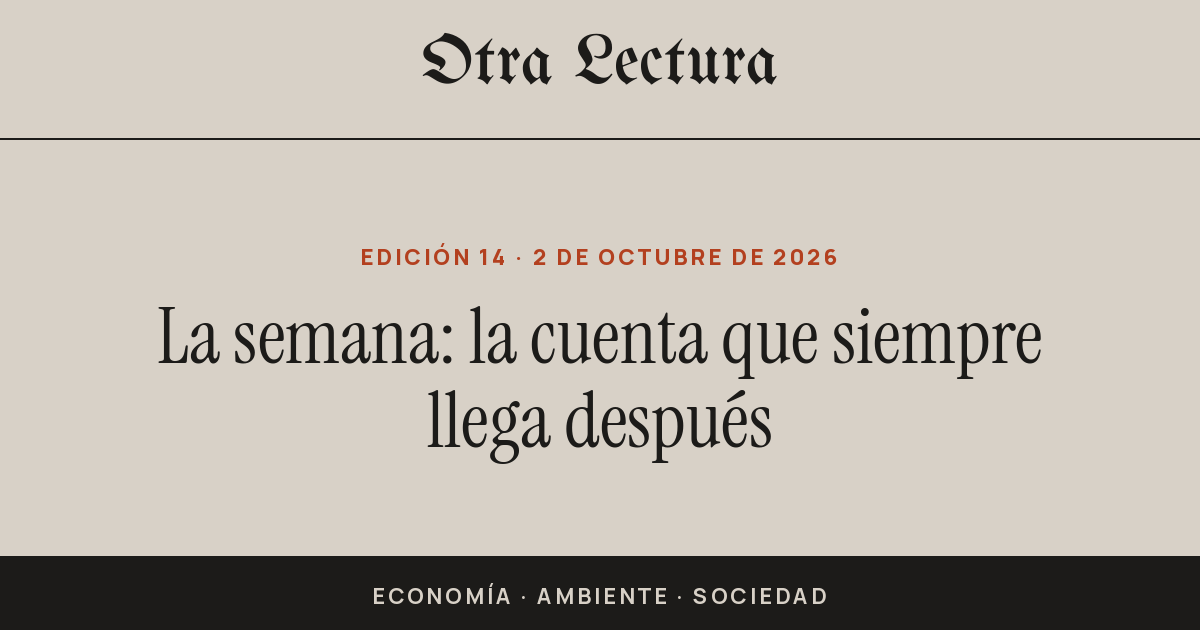
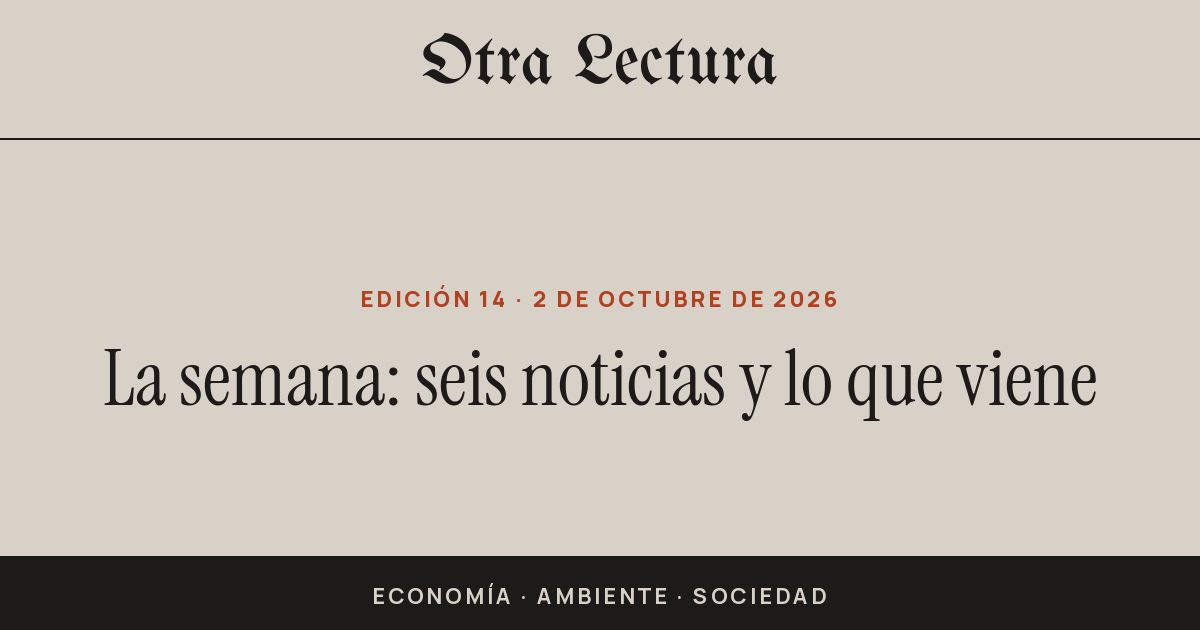
Edición de texto: La semana más práctica, sin tesis
Claude-Session: https://claude.ai/code/session_01PaiPt73Gg2dBxy8faNJwyJ

Changed region(s): [[0.0925, 0.4524, 0.925, 0.754], [0.2775, 0.3921, 0.7092, 0.4222]]

diff --git a/site/ediciones/2026-10-02-semana.html b/site/ediciones/2026-10-02-semana.html
@@ -4,16 +4,16 @@
 <meta charset="utf-8">
 <meta name="viewport" content="width=device-width, initial-scale=1">
 <meta name="color-scheme" content="light">
-<title>La semana: la cuenta que siempre llega después · Otra lectura</title>
-<meta name="description" content="Edición 14, 2 de octubre de 2026: La cuenta que siempre llega después. Contexto, soluciones y contrapeso.">
+<title>La semana: seis noticias y lo que viene · Otra lectura</title>
+<meta name="description" content="Edición 14, 2 de octubre de 2026: Seis noticias y lo que viene. Contexto, soluciones y contrapeso.">
 <meta property="og:site_name" content="Otra lectura">
 <meta property="og:locale" content="es_CO">
 <meta property="og:type" content="article">
-<meta property="og:title" content="La semana: la cuenta que siempre llega después · Otra lectura">
-<meta property="og:description" content="Edición 14, 2 de octubre de 2026: La cuenta que siempre llega después. Contexto, soluciones y contrapeso.">
+<meta property="og:title" content="La semana: seis noticias y lo que viene · Otra lectura">
+<meta property="og:description" content="Edición 14, 2 de octubre de 2026: Seis noticias y lo que viene. Contexto, soluciones y contrapeso.">
 <meta name="twitter:card" content="summary_large_image">
-<meta name="twitter:title" content="La semana: la cuenta que siempre llega después · Otra lectura">
-<meta name="twitter:description" content="Edición 14, 2 de octubre de 2026: La cuenta que siempre llega después. Contexto, soluciones y contrapeso.">
+<meta name="twitter:title" content="La semana: seis noticias y lo que viene · Otra lectura">
+<meta name="twitter:description" content="Edición 14, 2 de octubre de 2026: Seis noticias y lo que viene. Contexto, soluciones y contrapeso.">
 <meta name="theme-color" content="#d8d1c7" media="(prefers-color-scheme: light)">
 <meta name="theme-color" content="#1b1a18" media="(prefers-color-scheme: dark)">
 <link rel="canonical" href="https://otralectura.co/ediciones/2026-10-02-semana.html">
@@ -21,9 +21,9 @@
 <meta property="og:image" content="https://otralectura.co/og/ediciones/2026-10-02-semana.png">
 <meta property="og:image:width" content="1200">
 <meta property="og:image:height" content="630">
-<meta property="og:image:alt" content="La semana: la cuenta que siempre llega después">
+<meta property="og:image:alt" content="La semana: seis noticias y lo que viene">
 <meta name="twitter:image" content="https://otralectura.co/og/ediciones/2026-10-02-semana.png">
-<script type="application/ld+json">{"@context": "https://schema.org", "@type": "Article", "headline": "La semana: la cuenta que siempre llega después", "description": "Edición 14, 2 de octubre de 2026: La cuenta que siempre llega después. Contexto, soluciones y contrapeso.", "datePublished": "2026-10-02", "dateModified": "2026-10-02", "inLanguage": "es-CO", "articleSection": ["Economía", "Ambiente", "Sociedad"], "keywords": "semana-2026-10-02", "contentLocation": ["Colombia", "Barranquilla", "Puerto Colombia", "Atlántico", "Magdalena", "La Guajira", "Cali"], "author": {"@type": "Organization", "name": "Otra lectura"}, "publisher": {"@type": "Organization", "name": "Otra lectura"}, "isAccessibleForFree": true, "citation": ["https://www.infobae.com/colombia/2026/09/15/colombia-perdio-la-autosuficiencia-en-gas-aseguro-juan-manuel-rojas-presidente-de-promigas-el-pais-ya-importa-el-34-de-las-necesidades-de-gas-natural/", "https://www.larepublica.co/economia/ecopetrol-y-petrobras-proyectan-que-el-gas-del-campo-sirius-entre-a-partir-de-2030-4260314", "https://www.elheraldo.co/atlantico/2026/08/21/igac-propone-nueva-linea-divisoria-entre-puerto-colombia-y-barranquilla/", "https://barranquilla.gov.co/hacienda/impuesto-predial-unificado-2", "https://www.portafolio.co/economia/crecimiento/gobierno-lleva-al-fmi-panorama-fiscal-de-colombia-estado-gasta-40-billones-y-recibe-29-billones-cada-mes-503446", "https://www.nber.org/papers/w32465", "https://www.elheraldo.co/atlantico/2026/09/29/proyecto-de-ley-busca-trasladar-12-billones-del-presupuesto-general-2026-para-pagar-deuda-de-air-e/", "https://www.eltiempo.com/economia/air-e-patrimonio-negativo-y-una-deuda-de-3-09-billones-con-el-mercado-electrico-el-balance-de-dos-anos-de-intervencion-3588495", "https://www.elheraldo.co/economia/2026/09/30/aumento-el-desempleo-en-colombia-paso-de-86-a-94-en-agosto-dane/", "https://economia.uniandes.edu.co/sites/default/files/imagenes/eventos/Villar-MISION-COLOMBIA-ENVEJECE.pdf", "https://www.eltiempo.com/economia/sectores/gobierno-pide-modificar-el-presupuesto-de-2026-para-destinar-3-9-billones-a-la-reconstruccion-y-pagar-deudas-de-air-e-3589843", "https://www.portafolio.co/economia/gobierno/como-deberian-vigilarse-los-contratos-de-la-reconstruccion-las-claves-que-propone-transparencia-por-colombia-500777"], "url": "https://otralectura.co/ediciones/2026-10-02-semana.html"}</script>
+<script type="application/ld+json">{"@context": "https://schema.org", "@type": "Article", "headline": "La semana: seis noticias y lo que viene", "description": "Edición 14, 2 de octubre de 2026: Seis noticias y lo que viene. Contexto, soluciones y contrapeso.", "datePublished": "2026-10-02", "dateModified": "2026-10-02", "inLanguage": "es-CO", "articleSection": ["Economía", "Ambiente", "Sociedad"], "keywords": "semana-2026-10-02", "contentLocation": ["Colombia", "Barranquilla", "Puerto Colombia", "Atlántico", "Magdalena", "La Guajira", "Cali"], "author": {"@type": "Organization", "name": "Otra lectura"}, "publisher": {"@type": "Organization", "name": "Otra lectura"}, "isAccessibleForFree": true, "citation": ["https://www.infobae.com/colombia/2026/09/15/colombia-perdio-la-autosuficiencia-en-gas-aseguro-juan-manuel-rojas-presidente-de-promigas-el-pais-ya-importa-el-34-de-las-necesidades-de-gas-natural/", "https://www.larepublica.co/economia/ecopetrol-y-petrobras-proyectan-que-el-gas-del-campo-sirius-entre-a-partir-de-2030-4260314", "https://www.elheraldo.co/atlantico/2026/08/21/igac-propone-nueva-linea-divisoria-entre-puerto-colombia-y-barranquilla/", "https://barranquilla.gov.co/hacienda/impuesto-predial-unificado-2", "https://www.portafolio.co/economia/crecimiento/gobierno-lleva-al-fmi-panorama-fiscal-de-colombia-estado-gasta-40-billones-y-recibe-29-billones-cada-mes-503446", "https://www.nber.org/papers/w32465", "https://www.elheraldo.co/atlantico/2026/09/29/proyecto-de-ley-busca-trasladar-12-billones-del-presupuesto-general-2026-para-pagar-deuda-de-air-e/", "https://www.eltiempo.com/economia/air-e-patrimonio-negativo-y-una-deuda-de-3-09-billones-con-el-mercado-electrico-el-balance-de-dos-anos-de-intervencion-3588495", "https://www.elheraldo.co/economia/2026/09/30/aumento-el-desempleo-en-colombia-paso-de-86-a-94-en-agosto-dane/", "https://economia.uniandes.edu.co/sites/default/files/imagenes/eventos/Villar-MISION-COLOMBIA-ENVEJECE.pdf", "https://www.eltiempo.com/economia/sectores/gobierno-pide-modificar-el-presupuesto-de-2026-para-destinar-3-9-billones-a-la-reconstruccion-y-pagar-deudas-de-air-e-3589843", "https://www.portafolio.co/economia/gobierno/como-deberian-vigilarse-los-contratos-de-la-reconstruccion-las-claves-que-propone-transparencia-por-colombia-500777"], "url": "https://otralectura.co/ediciones/2026-10-02-semana.html"}</script>
 <link rel="preload" href="../fuentes/instrument-serif.woff2" as="font" type="font/woff2" crossorigin>
 <link rel="preload" href="../fuentes/unifraktur.woff2" as="font" type="font/woff2" crossorigin>
 <link rel="stylesheet" href="../estilo.css">
@@ -57,22 +57,18 @@
 <main id="contenido">
 <article class="edicion">
 <header class="cabecera">
-<p class="fecha"><time datetime="2026-10-02">2 de octubre de 2026</time> · Edición 14 · 4 min de lectura</p>
-<h1>La semana: la cuenta que siempre llega después</h1>
+<p class="fecha"><time datetime="2026-10-02">2 de octubre de 2026</time> · Edición 14 · 2 min de lectura</p>
+<h1>La semana: seis noticias y lo que viene</h1>
 <ul class="temas" aria-label="Categorías"><li><a href="../categorias/economia.html">Economía</a></li><li><a href="../categorias/ambiente.html">Ambiente</a></li><li><a href="../categorias/sociedad.html">Sociedad</a></li></ul>
 
-<nav class="indice-edicion" aria-label="En esta edición"><p>En esta edición</p><ol><li><a href="#semana-2026-10-02">La cuenta que siempre llega después</a></li><li><a href="#para-conversar">Para conversar</a></li></ol></nav>
+<nav class="indice-edicion" aria-label="En esta edición"><p>En esta edición</p><ol><li><a href="#semana-2026-10-02">Seis noticias y lo que viene</a></li><li><a href="#para-conversar">Para conversar</a></li></ol></nav>
 </header>
 <section class="carril carril-radar">
 
 <article class="item" id="semana-2026-10-02">
-<h3>La cuenta que siempre llega después</h3>
-<p class="con-etiqueta"><strong class="etiqueta">En pocas palabras.</strong> Esta semana contamos seis historias: el gas, un
-barrio entre dos alcaldías, las cuentas del Estado, la luz del Caribe, el
-trabajo sin pensión y la reconstrucción. Parecen distintas, pero se
-parecen mucho. Una decisión se aplazó o se tomó a la carrera, y la cuenta
-le llega a alguien que no la firmó. Y casi todas se deciden en el
-Congreso.</p>
+<h3>Seis noticias y lo que viene</h3>
+<p class="con-etiqueta"><strong class="etiqueta">En pocas palabras.</strong> Un repaso corto de la semana: qué contamos, qué
+vale la pena recordar y qué se decide en los próximos días.</p>
 <p class="con-etiqueta"><strong class="etiqueta">Lo que pasó esta semana.</strong> </p>
 <ul>
 <li><strong>Gas.</strong> De cada 100 unidades de gas que usó el país en agosto, 34
@@ -94,32 +90,6 @@ Congreso.</p>
   Milagro, que contrata con reglas de empresa privada, más rápidas y con
   menos controles. <a href="2026-10-02-radar.html">Leer la edición 13</a></li>
 </ul>
-<p class="con-etiqueta"><strong class="etiqueta">El hilo que las une.</strong> Piense en una tarjeta de crédito. Hoy se estrena
-la nevera. La cuenta llega el mes siguiente, con intereses. Y si la
-tarjeta es de otro, mejor: el que compra no es el que paga.</p>
-<p>Eso se repitió toda la semana:</p>
-<ul>
-<li><strong>En el gas,</strong> la regla para buscarlo cambia cada cuatro años, pero un
-  yacimiento tarda casi diez en dar gas. El gobierno que decide no buscar
-  no paga la cuenta. La paga el siguiente y, sobre todo, la familia que
-  usa gas.</li>
-<li><strong>En las cuentas del Estado,</strong> el que gasta de más tampoco paga. Hoy, de
-  cada 3 pesos del presupuesto, 1 se va en pagar deuda.</li>
-<li><strong>En Air-e,</strong> las facturas bajaron en 2024 porque se dejó de cobrar un
-  saldo viejo. Ahora esa plata sale, en parte, de una partida que era para
-  transporte público. La cuenta solo cambió de ventanilla.</li>
-<li><strong>En el trabajo,</strong> un empleo sin aportes ahorra hoy. El costo aparece en
-  la vejez: solo cerca de uno de cada cuatro adultos mayores recibe
-  pensión.</li>
-<li><strong>En la reconstrucción,</strong> mostrar obras pronto da réditos. El sobrecosto,
-  si aparece, se descubre cuando ya hay otro gobierno.</li>
-<li><strong>En Villa Campestre,</strong> las obras terminaron siendo de nadie. El
-  impuesto, en cambio, siempre encuentra quién lo cobre.</li>
-</ul>
-<p>La lección buena: lo que funcionó afuera se parece. Reglas que duran más
-que un gobierno y alguien que revisa en público. Jamaica bajó su deuda a
-menos de la mitad con un comité que revisaba cada meta, y el plan siguió
-cuando cambió el gobierno.</p>
 <p class="con-etiqueta"><strong class="etiqueta">Para tener presente.</strong> </p>
 <ul>
 <li>Gas nuevo no es gas mañana: Sirius, el hallazgo más grande del país, no
@@ -155,9 +125,8 @@ cuando cambió el gobierno.</p>
 </section>
 <section class="carril conversar" id="para-conversar">
 <h2>Para conversar</h2>
-<p class="con-etiqueta"><strong class="etiqueta">La pregunta.</strong> Si casi todas las cuentas de esta semana las paga alguien
-que no tomó la decisión, ¿qué decisión le gustaría a usted que alguien
-tomara hoy, aunque el beneficio lo vea otro gobierno?</p>
+<p class="con-etiqueta"><strong class="etiqueta">La pregunta.</strong> De estas seis noticias, ¿cuál le toca más de cerca a
+usted o a su familia?</p>
 </section>
 <section class="carril cierre plegable">
 <details>

diff --git a/site/dias/2026-10-02.html b/site/dias/2026-10-02.html
@@ -5,15 +5,15 @@
 <meta name="viewport" content="width=device-width, initial-scale=1">
 <meta name="color-scheme" content="light">
 <title>Viernes 2 de octubre de 2026 · Otra lectura</title>
-<meta name="description" content="Otra lectura del 2 de octubre de 2026: La cuenta que siempre llega después; Reconstruir rápido o reconstruir a la vista: el Fondo Milagro pide 2,7 billones.">
+<meta name="description" content="Otra lectura del 2 de octubre de 2026: Seis noticias y lo que viene; Reconstruir rápido o reconstruir a la vista: el Fondo Milagro pide 2,7 billones.">
 <meta property="og:site_name" content="Otra lectura">
 <meta property="og:locale" content="es_CO">
 <meta property="og:type" content="website">
 <meta property="og:title" content="Viernes 2 de octubre de 2026 · Otra lectura">
-<meta property="og:description" content="Otra lectura del 2 de octubre de 2026: La cuenta que siempre llega después; Reconstruir rápido o reconstruir a la vista: el Fondo Milagro pide 2,7 billones.">
+<meta property="og:description" content="Otra lectura del 2 de octubre de 2026: Seis noticias y lo que viene; Reconstruir rápido o reconstruir a la vista: el Fondo Milagro pide 2,7 billones.">
 <meta name="twitter:card" content="summary_large_image">
 <meta name="twitter:title" content="Viernes 2 de octubre de 2026 · Otra lectura">
-<meta name="twitter:description" content="Otra lectura del 2 de octubre de 2026: La cuenta que siempre llega después; Reconstruir rápido o reconstruir a la vista: el Fondo Milagro pide 2,7 billones.">
+<meta name="twitter:description" content="Otra lectura del 2 de octubre de 2026: Seis noticias y lo que viene; Reconstruir rápido o reconstruir a la vista: el Fondo Milagro pide 2,7 billones.">
 <meta name="theme-color" content="#d8d1c7" media="(prefers-color-scheme: light)">
 <meta name="theme-color" content="#1b1a18" media="(prefers-color-scheme: dark)">
 <link rel="canonical" href="https://otralectura.co/dias/2026-10-02.html">
@@ -21,9 +21,9 @@
 <meta property="og:image" content="https://otralectura.co/og/dias/2026-10-02.png">
 <meta property="og:image:width" content="1200">
 <meta property="og:image:height" content="630">
-<meta property="og:image:alt" content="La semana: la cuenta que siempre llega después">
+<meta property="og:image:alt" content="La semana: seis noticias y lo que viene">
 <meta name="twitter:image" content="https://otralectura.co/og/dias/2026-10-02.png">
-<script type="application/ld+json">{"@context": "https://schema.org", "@type": "WebPage", "name": "Viernes 2 de octubre de 2026 · Otra lectura", "description": "Otra lectura del 2 de octubre de 2026: La cuenta que siempre llega después; Reconstruir rápido o reconstruir a la vista: el Fondo Milagro pide 2,7 billones.", "inLanguage": "es-CO", "isPartOf": {"@type": "WebSite", "name": "Otra lectura"}, "url": "https://otralectura.co/dias/2026-10-02.html"}</script>
+<script type="application/ld+json">{"@context": "https://schema.org", "@type": "WebPage", "name": "Viernes 2 de octubre de 2026 · Otra lectura", "description": "Otra lectura del 2 de octubre de 2026: Seis noticias y lo que viene; Reconstruir rápido o reconstruir a la vista: el Fondo Milagro pide 2,7 billones.", "inLanguage": "es-CO", "isPartOf": {"@type": "WebSite", "name": "Otra lectura"}, "url": "https://otralectura.co/dias/2026-10-02.html"}</script>
 <link rel="preload" href="../fuentes/instrument-serif.woff2" as="font" type="font/woff2" crossorigin>
 <link rel="preload" href="../fuentes/unifraktur.woff2" as="font" type="font/woff2" crossorigin>
 <link rel="stylesheet" href="../estilo.css">
@@ -61,10 +61,10 @@
 </header>
 <ol class="indice dia">
 <li>
-<p class="fecha">Edición 14 · 4 min de lectura</p>
-<a class="dia-titulo" href="../ediciones/2026-10-02-semana.html">La semana: la cuenta que siempre llega después</a>
+<p class="fecha">Edición 14 · 2 min de lectura</p>
+<a class="dia-titulo" href="../ediciones/2026-10-02-semana.html">La semana: seis noticias y lo que viene</a>
 
-<ul class="dia-temas" aria-label="Temas principales"><li><a href="../ediciones/2026-10-02-semana.html#semana-2026-10-02">La cuenta que siempre llega después</a></li></ul>
+<ul class="dia-temas" aria-label="Temas principales"><li><a href="../ediciones/2026-10-02-semana.html#semana-2026-10-02">Seis noticias y lo que viene</a></li></ul>
 </li>
 <li>
 <p class="fecha">Edición 13 · 6 min de lectura</p>

diff --git a/site/index.html b/site/index.html
@@ -70,10 +70,10 @@ leer despacio y conversar en casa. <a href="sobre.html">¿Qué es esto?</a></p>
 <h2 id="hoy-titulo" class="dia-fecha"><time datetime="2026-10-02">Viernes 2 de octubre de 2026</time></h2>
 <ol class="indice dia">
 <li>
-<p class="fecha">Edición 14 · 4 min de lectura</p>
-<a class="dia-titulo" href="ediciones/2026-10-02-semana.html">La semana: la cuenta que siempre llega después</a>
+<p class="fecha">Edición 14 · 2 min de lectura</p>
+<a class="dia-titulo" href="ediciones/2026-10-02-semana.html">La semana: seis noticias y lo que viene</a>
 
-<ul class="dia-temas" aria-label="Temas principales"><li><a href="ediciones/2026-10-02-semana.html#semana-2026-10-02">La cuenta que siempre llega después</a></li></ul>
+<ul class="dia-temas" aria-label="Temas principales"><li><a href="ediciones/2026-10-02-semana.html#semana-2026-10-02">Seis noticias y lo que viene</a></li></ul>
 </li>
 <li>
 <p class="fecha">Edición 13 · 6 min de lectura</p>

diff --git a/site/ediciones/2026-10-02-radar.html b/site/ediciones/2026-10-02-radar.html
@@ -401,8 +401,8 @@ fondo) y el daño es medible (obras sin terminar, familias sin casa).</p></detai
 <a class="glosario-boton" href="#glosario">Glosario</a>
 <aside class="siguiente" aria-label="Seguir leyendo">
 <p class="siguiente-pregunta">¿Le gustaría seguir leyendo? Tenemos esta otra lectura:</p>
-<a class="siguiente-titulo" href="2026-10-02-semana.html">La semana: la cuenta que siempre llega después</a>
-<p class="fecha">2 de octubre de 2026 · 4 min de lectura</p>
+<a class="siguiente-titulo" href="2026-10-02-semana.html">La semana: seis noticias y lo que viene</a>
+<p class="fecha">2 de octubre de 2026 · 2 min de lectura</p>
 </aside>
 </main>
 <footer class="sitio">

diff --git a/site/ediciones/2026-10-01-radar.html b/site/ediciones/2026-10-01-radar.html
@@ -378,8 +378,8 @@ alto en 20 meses y la informalidad sigue casi en el mismo lugar.</p></details>
 <a class="glosario-boton" href="#glosario">Glosario</a>
 <aside class="siguiente" aria-label="Seguir leyendo">
 <p class="siguiente-pregunta">¿Le gustaría seguir leyendo? Tenemos esta otra lectura:</p>
-<a class="siguiente-titulo" href="2026-10-02-semana.html">La semana: la cuenta que siempre llega después</a>
-<p class="fecha">2 de octubre de 2026 · 4 min de lectura</p>
+<a class="siguiente-titulo" href="2026-10-02-semana.html">La semana: seis noticias y lo que viene</a>
+<p class="fecha">2 de octubre de 2026 · 2 min de lectura</p>
 </aside>
 </main>
 <footer class="sitio">

diff --git a/site/ediciones/2026-09-29-villa-campestre.html b/site/ediciones/2026-09-29-villa-campestre.html
@@ -340,8 +340,8 @@ luego puntaje de 1 a 3; gravedad y cercanía valen doble (máximo 21).</p>
 <a class="glosario-boton" href="#glosario">Glosario</a>
 <aside class="siguiente" aria-label="Seguir leyendo">
 <p class="siguiente-pregunta">¿Le gustaría seguir leyendo? Tenemos esta otra lectura:</p>
-<a class="siguiente-titulo" href="2026-10-02-semana.html">La semana: la cuenta que siempre llega después</a>
-<p class="fecha">2 de octubre de 2026 · 4 min de lectura</p>
+<a class="siguiente-titulo" href="2026-10-02-semana.html">La semana: seis noticias y lo que viene</a>
+<p class="fecha">2 de octubre de 2026 · 2 min de lectura</p>
 </aside>
 </main>
 <footer class="sitio">

diff --git a/site/archivo.html b/site/archivo.html
@@ -87,7 +87,7 @@
 <ol class="archivo-dias">
 <li>
 <a href="dias/2026-10-02.html"><time datetime="2026-10-02">Viernes 2 de octubre de 2026</time></a>
-<p class="archivo-temas">La cuenta que siempre llega después · Reconstruir rápido o reconstruir a la vista: el Fondo Milagro pide 2,7 billones</p>
+<p class="archivo-temas">Seis noticias y lo que viene · Reconstruir rápido o reconstruir a la vista: el Fondo Milagro pide 2,7 billones</p>
 </li><li>
 <a href="dias/2026-10-01.html"><time datetime="2026-10-01">Jueves 1 de octubre de 2026</time></a>
 <p class="archivo-temas">Uno de cada dos trabajadores sin pensión: el desempleo sube y la informalidad casi no se mueve</p>

diff --git a/site/ediciones/2026-09-29-radar.html b/site/ediciones/2026-09-29-radar.html
@@ -400,8 +400,8 @@ DANE publique las cifras de empleo de agosto.</p></details>
 <a class="glosario-boton" href="#glosario">Glosario</a>
 <aside class="siguiente" aria-label="Seguir leyendo">
 <p class="siguiente-pregunta">¿Le gustaría seguir leyendo? Tenemos esta otra lectura:</p>
-<a class="siguiente-titulo" href="2026-10-02-semana.html">La semana: la cuenta que siempre llega después</a>
-<p class="fecha">2 de octubre de 2026 · 4 min de lectura</p>
+<a class="siguiente-titulo" href="2026-10-02-semana.html">La semana: seis noticias y lo que viene</a>
+<p class="fecha">2 de octubre de 2026 · 2 min de lectura</p>
 </aside>
 </main>
 <footer class="sitio">

diff --git a/site/ediciones/2026-09-30-radar.html b/site/ediciones/2026-09-30-radar.html
@@ -367,8 +367,8 @@ antesala de El Niño.</p></details>
 <a class="glosario-boton" href="#glosario">Glosario</a>
 <aside class="siguiente" aria-label="Seguir leyendo">
 <p class="siguiente-pregunta">¿Le gustaría seguir leyendo? Tenemos esta otra lectura:</p>
-<a class="siguiente-titulo" href="2026-10-02-semana.html">La semana: la cuenta que siempre llega después</a>
-<p class="fecha">2 de octubre de 2026 · 4 min de lectura</p>
+<a class="siguiente-titulo" href="2026-10-02-semana.html">La semana: seis noticias y lo que viene</a>
+<p class="fecha">2 de octubre de 2026 · 2 min de lectura</p>
 </aside>
 </main>
 <footer class="sitio">

diff --git a/site/ediciones/2026-09-28-radar.html b/site/ediciones/2026-09-28-radar.html
@@ -358,8 +358,8 @@ colegio.</p></details>
 <a class="glosario-boton" href="#glosario">Glosario</a>
 <aside class="siguiente" aria-label="Seguir leyendo">
 <p class="siguiente-pregunta">¿Le gustaría seguir leyendo? Tenemos esta otra lectura:</p>
-<a class="siguiente-titulo" href="2026-10-02-semana.html">La semana: la cuenta que siempre llega después</a>
-<p class="fecha">2 de octubre de 2026 · 4 min de lectura</p>
+<a class="siguiente-titulo" href="2026-10-02-semana.html">La semana: seis noticias y lo que viene</a>
+<p class="fecha">2 de octubre de 2026 · 2 min de lectura</p>
 </aside>
 </main>
 <footer class="sitio">

diff --git a/site/categorias/ambiente.html b/site/categorias/ambiente.html
@@ -61,8 +61,8 @@
 </header>
 <ol class="indice" reversed>
 <li>
-<p class="fecha"><time datetime="2026-10-02">2 de octubre de 2026</time> · Edición 14 · 4 min de lectura</p>
-<a href="../ediciones/2026-10-02-semana.html">La semana: la cuenta que siempre llega después</a>
+<p class="fecha"><time datetime="2026-10-02">2 de octubre de 2026</time> · Edición 14 · 2 min de lectura</p>
+<a href="../ediciones/2026-10-02-semana.html">La semana: seis noticias y lo que viene</a>
 
 </li><li>
 <p class="fecha"><time datetime="2026-09-30">30 de septiembre de 2026</time> · Edición 11 · 5 min de lectura</p>

diff --git a/site/categorias/economia.html b/site/categorias/economia.html
@@ -61,8 +61,8 @@
 </header>
 <ol class="indice" reversed>
 <li>
-<p class="fecha"><time datetime="2026-10-02">2 de octubre de 2026</time> · Edición 14 · 4 min de lectura</p>
-<a href="../ediciones/2026-10-02-semana.html">La semana: la cuenta que siempre llega después</a>
+<p class="fecha"><time datetime="2026-10-02">2 de octubre de 2026</time> · Edición 14 · 2 min de lectura</p>
+<a href="../ediciones/2026-10-02-semana.html">La semana: seis noticias y lo que viene</a>
 
 </li><li>
 <p class="fecha"><time datetime="2026-10-02">2 de octubre de 2026</time> · Edición 13 · 6 min de lectura</p>
